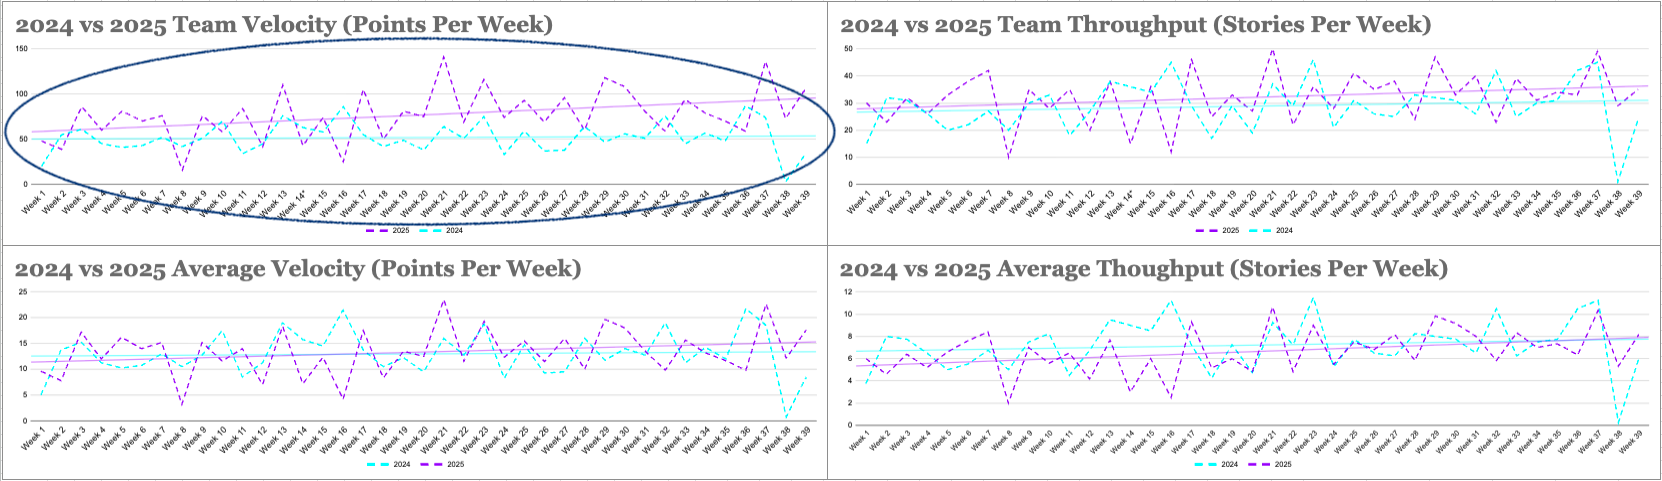
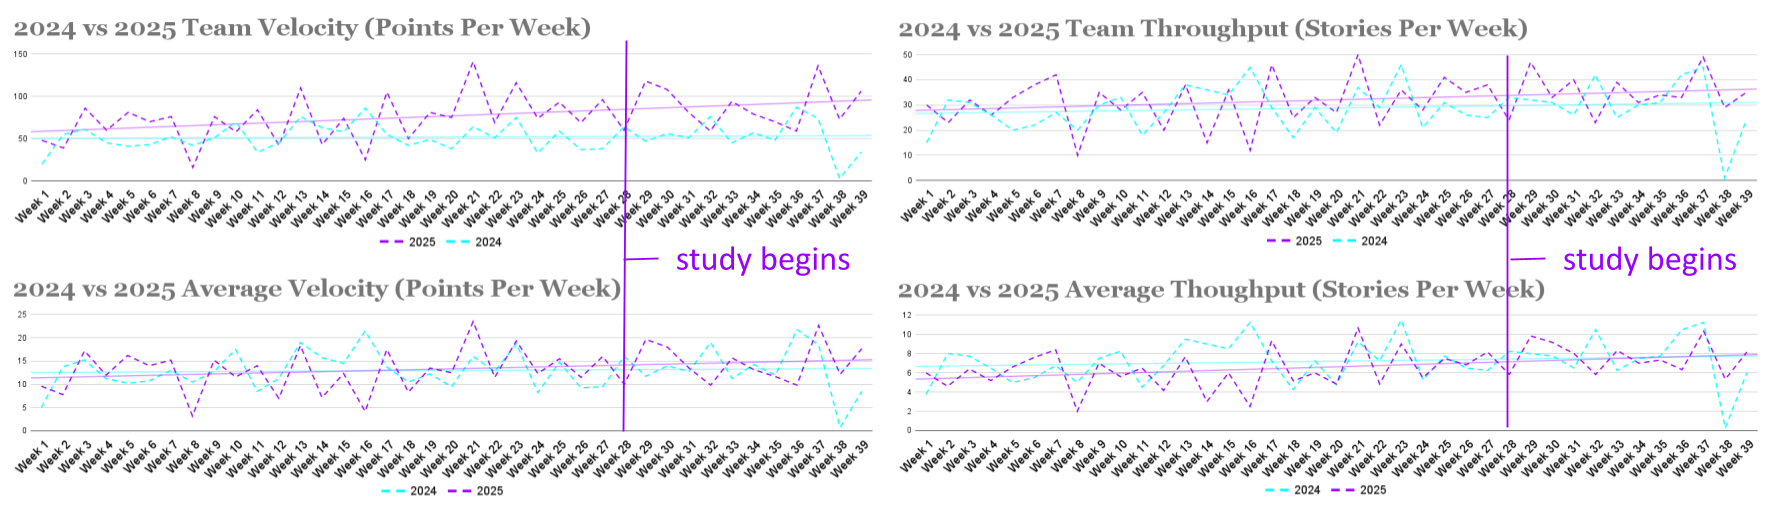
improve graphs (#495)

diff --git a/content/en/blog/2025-10-01-do-ai-coding-assistants-help.md b/content/en/blog/2025-10-01-do-ai-coding-assistants-help.md
@@ -45,11 +45,11 @@ All interviews are captured and transcribed using the AI notetaking tool Firefli
 
 We now find ourselves at the midway point of our investigation. So far the quantitative data is not conclusive, but it is interesting.
 
-![2025 Individual Velocity and Throughput](/img/blog/2025-10-01-do-ai-coding-assistants-help/2025-metrics.png)
+![2025 Individual Velocity and Throughput](/img/blog/2025-10-01-do-ai-coding-assistants-help/individual-velocity-throughput-2025.png)
 
 Two of our participating engineers (Engineer 5 and Engineer 6 in the graph above) joined our team in 2025, and for them, we have definitely observed individual acceleration over the course of the year. While we do not attribute *all* of this acceleration to AI coding tools, they are both AI power users, so we suspect the increase in their individual velocity (points per week) and throughput (stories per week) is not simply coincidence. However, neither individual velocity nor individual throughput has changed substantially for the four veteran engineers who are participating in our study.
 
-In the group of graphs below, we compare the metrics for the team across two years. The top lefthand shows an increase in our team velocity from 2024 to 2025 (i.e. how many points we finish as a group each week), though this increase is substantially less when we consider the lower lefthand graph, which shows a much smaller (but still noticeable) increase in average velocity from 2024 to 2025 (i.e. how many points we finish each week, divided by the number of engineers). This makes sense, since part of the "acceleration" we observe in the top lefthand chart is actually the result of growing our team, and thus, our capacity.
+In the group of graphs below, we compare the metrics for the team across two years. The top lefthand shows an increase in our team velocity from 2024 to 2025 (i.e. how many points we finish as a group each week), though this increase is substantially less when we consider the lower lefthand graph, which shows a much smaller (but still noticeable) increase in average velocity from 2024 to 2025 (i.e. how many points we finish each week, divided by the number of engineers). This makes sense, since part of the "acceleration" we observe in the top lefthand chart is actually the result of growing our team, and thus, our capacity. Nonetheless, all four graphs have positive slopes.
 
 ![2024 vs 2025 Team and Average Metrics](/img/blog/2025-10-01-do-ai-coding-assistants-help/2024-vs-2025.png)
 
@@ -111,4 +111,4 @@ We learned to be more skeptical about AI; rather than assuming an LLM can defini
 
 Most importantly, we have learned that the biggest driver of productivity is leaning into human collaboration. While off-the-shelf tools are convenient, we needed a solution designed to accelerate us as a group, not just as individuals. The most valuable agents we’ve created so far address organizational friction points (e.g. helping us get from an unstructured brainstorming call to a set of clearly defined stories to pull into the next sprint). Looking ahead, we’ll be focused on tools that help us achieve more together than any one of us could alone, with or without AI.
 
-*Want to check out what our team is building?* Connect with us on [LinkedIn](https://www.linkedin.com/company/rotational/)!
+*Have suggestions for other ways we could crunch the numbers?* Connect with us on [LinkedIn](https://www.linkedin.com/company/rotational/)!
